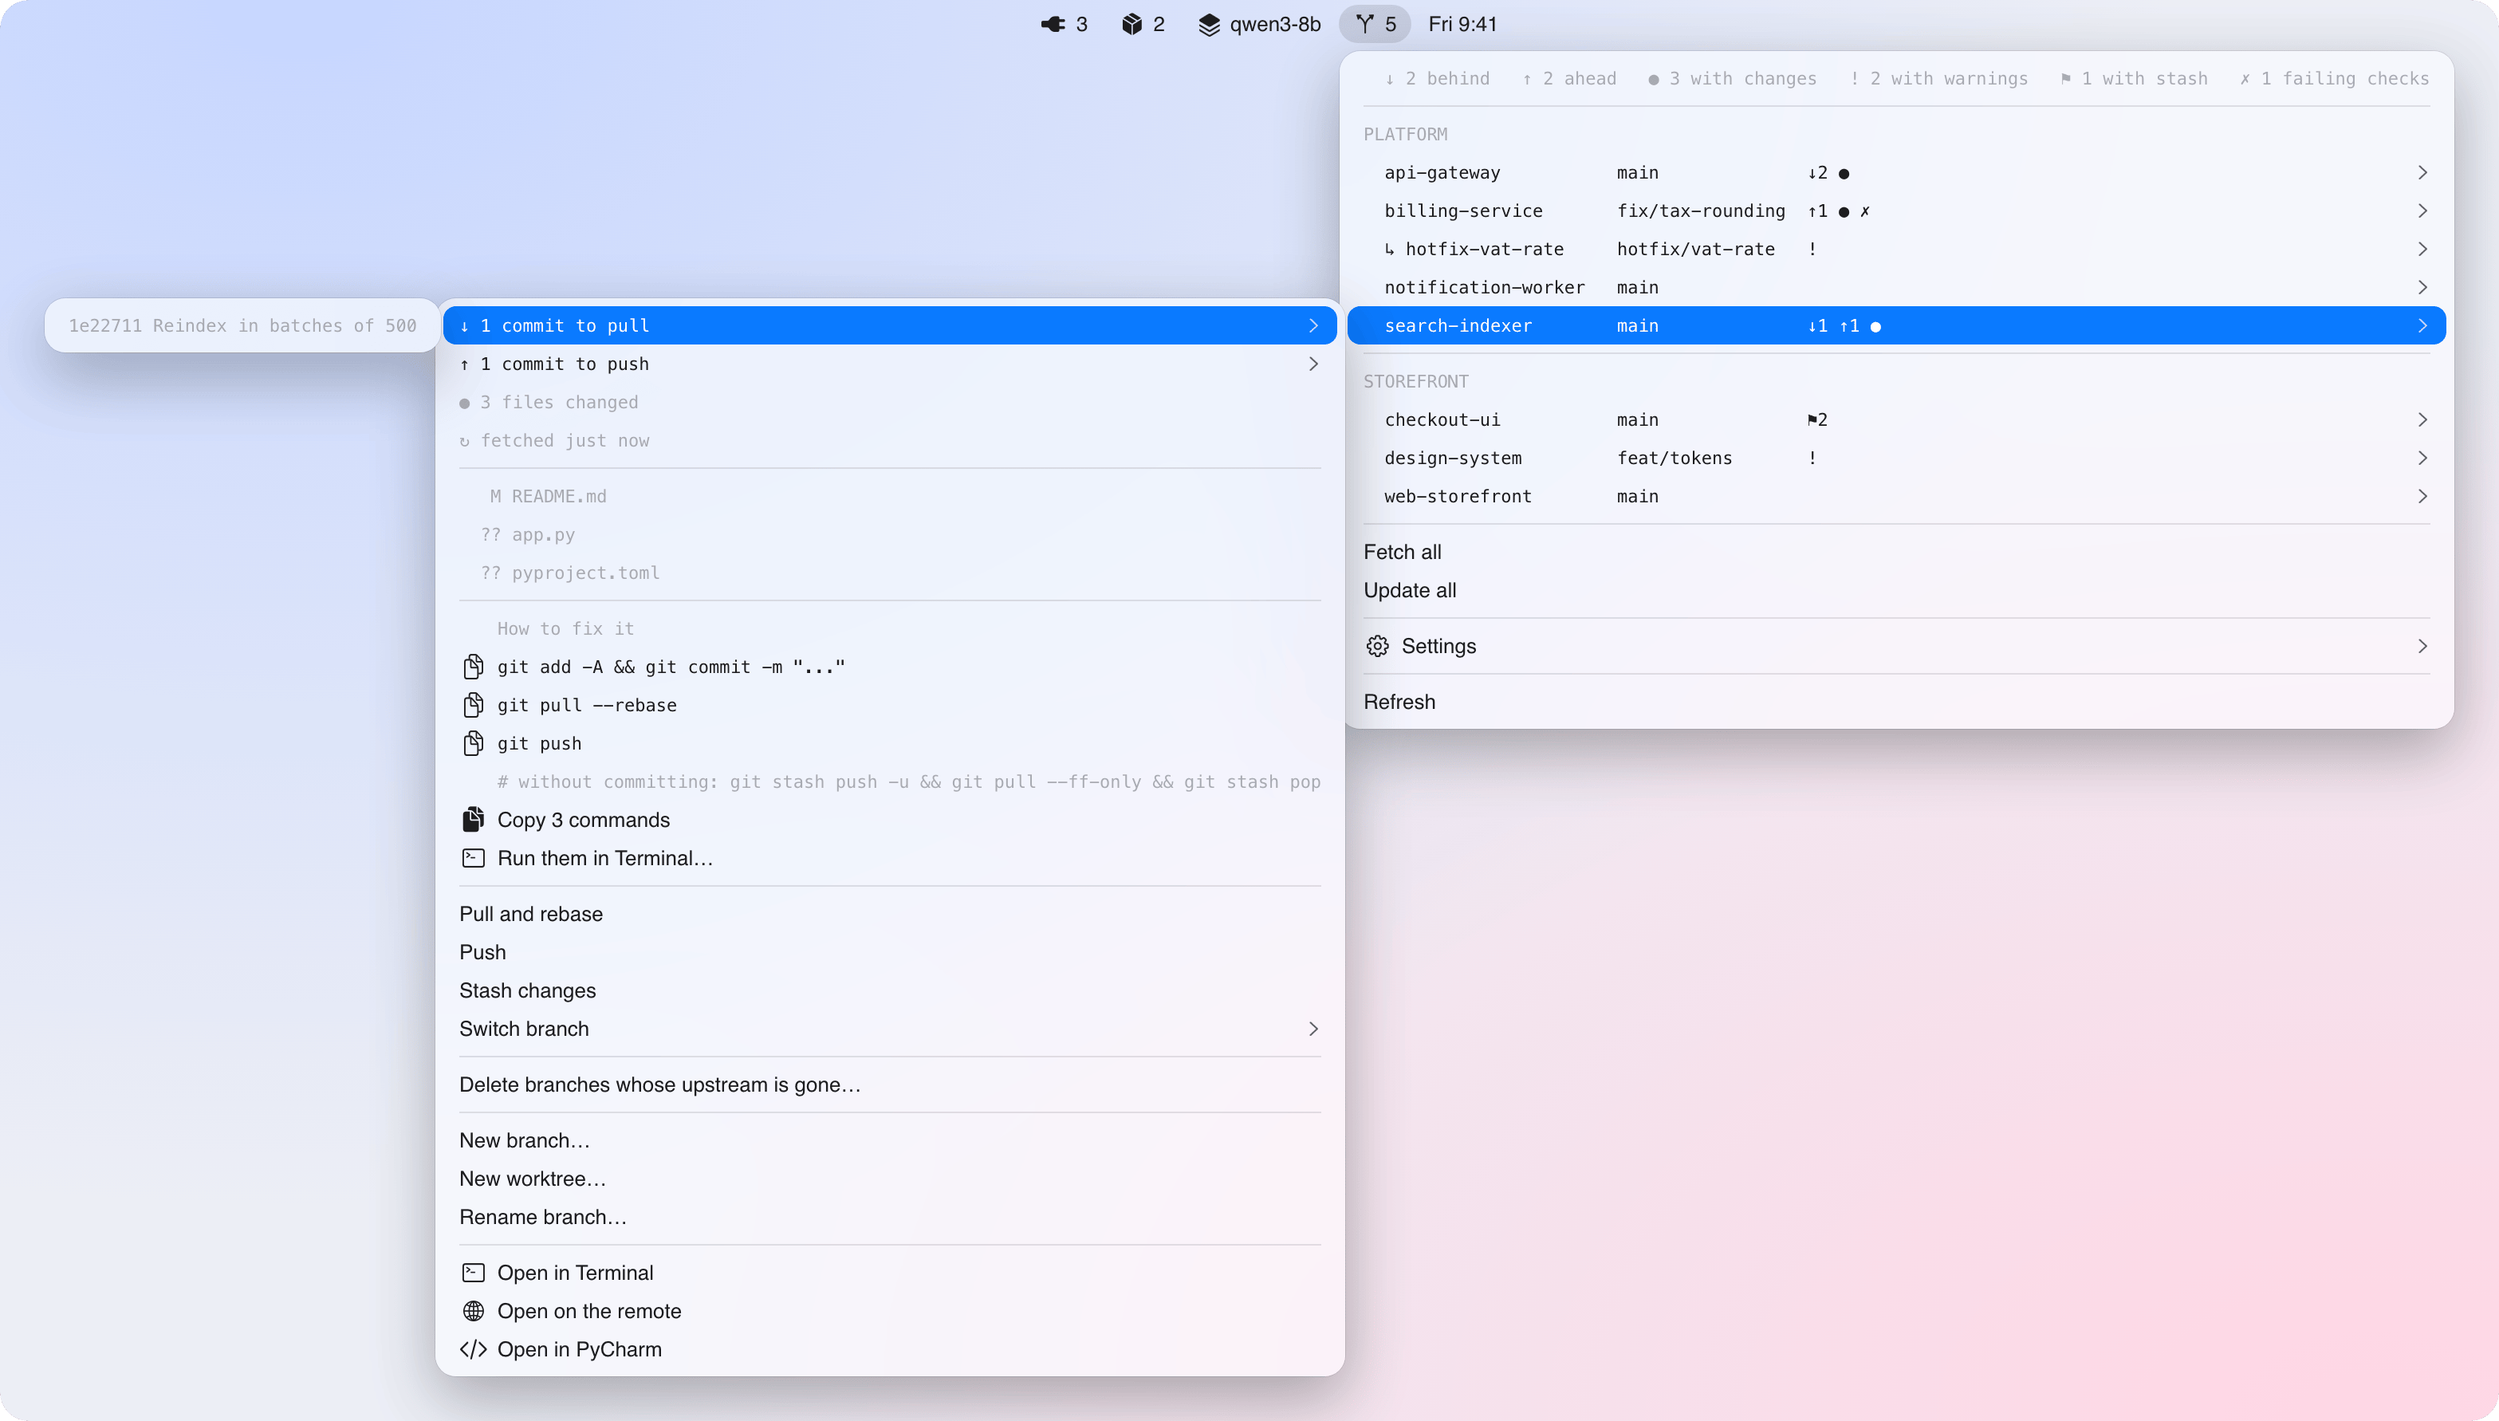
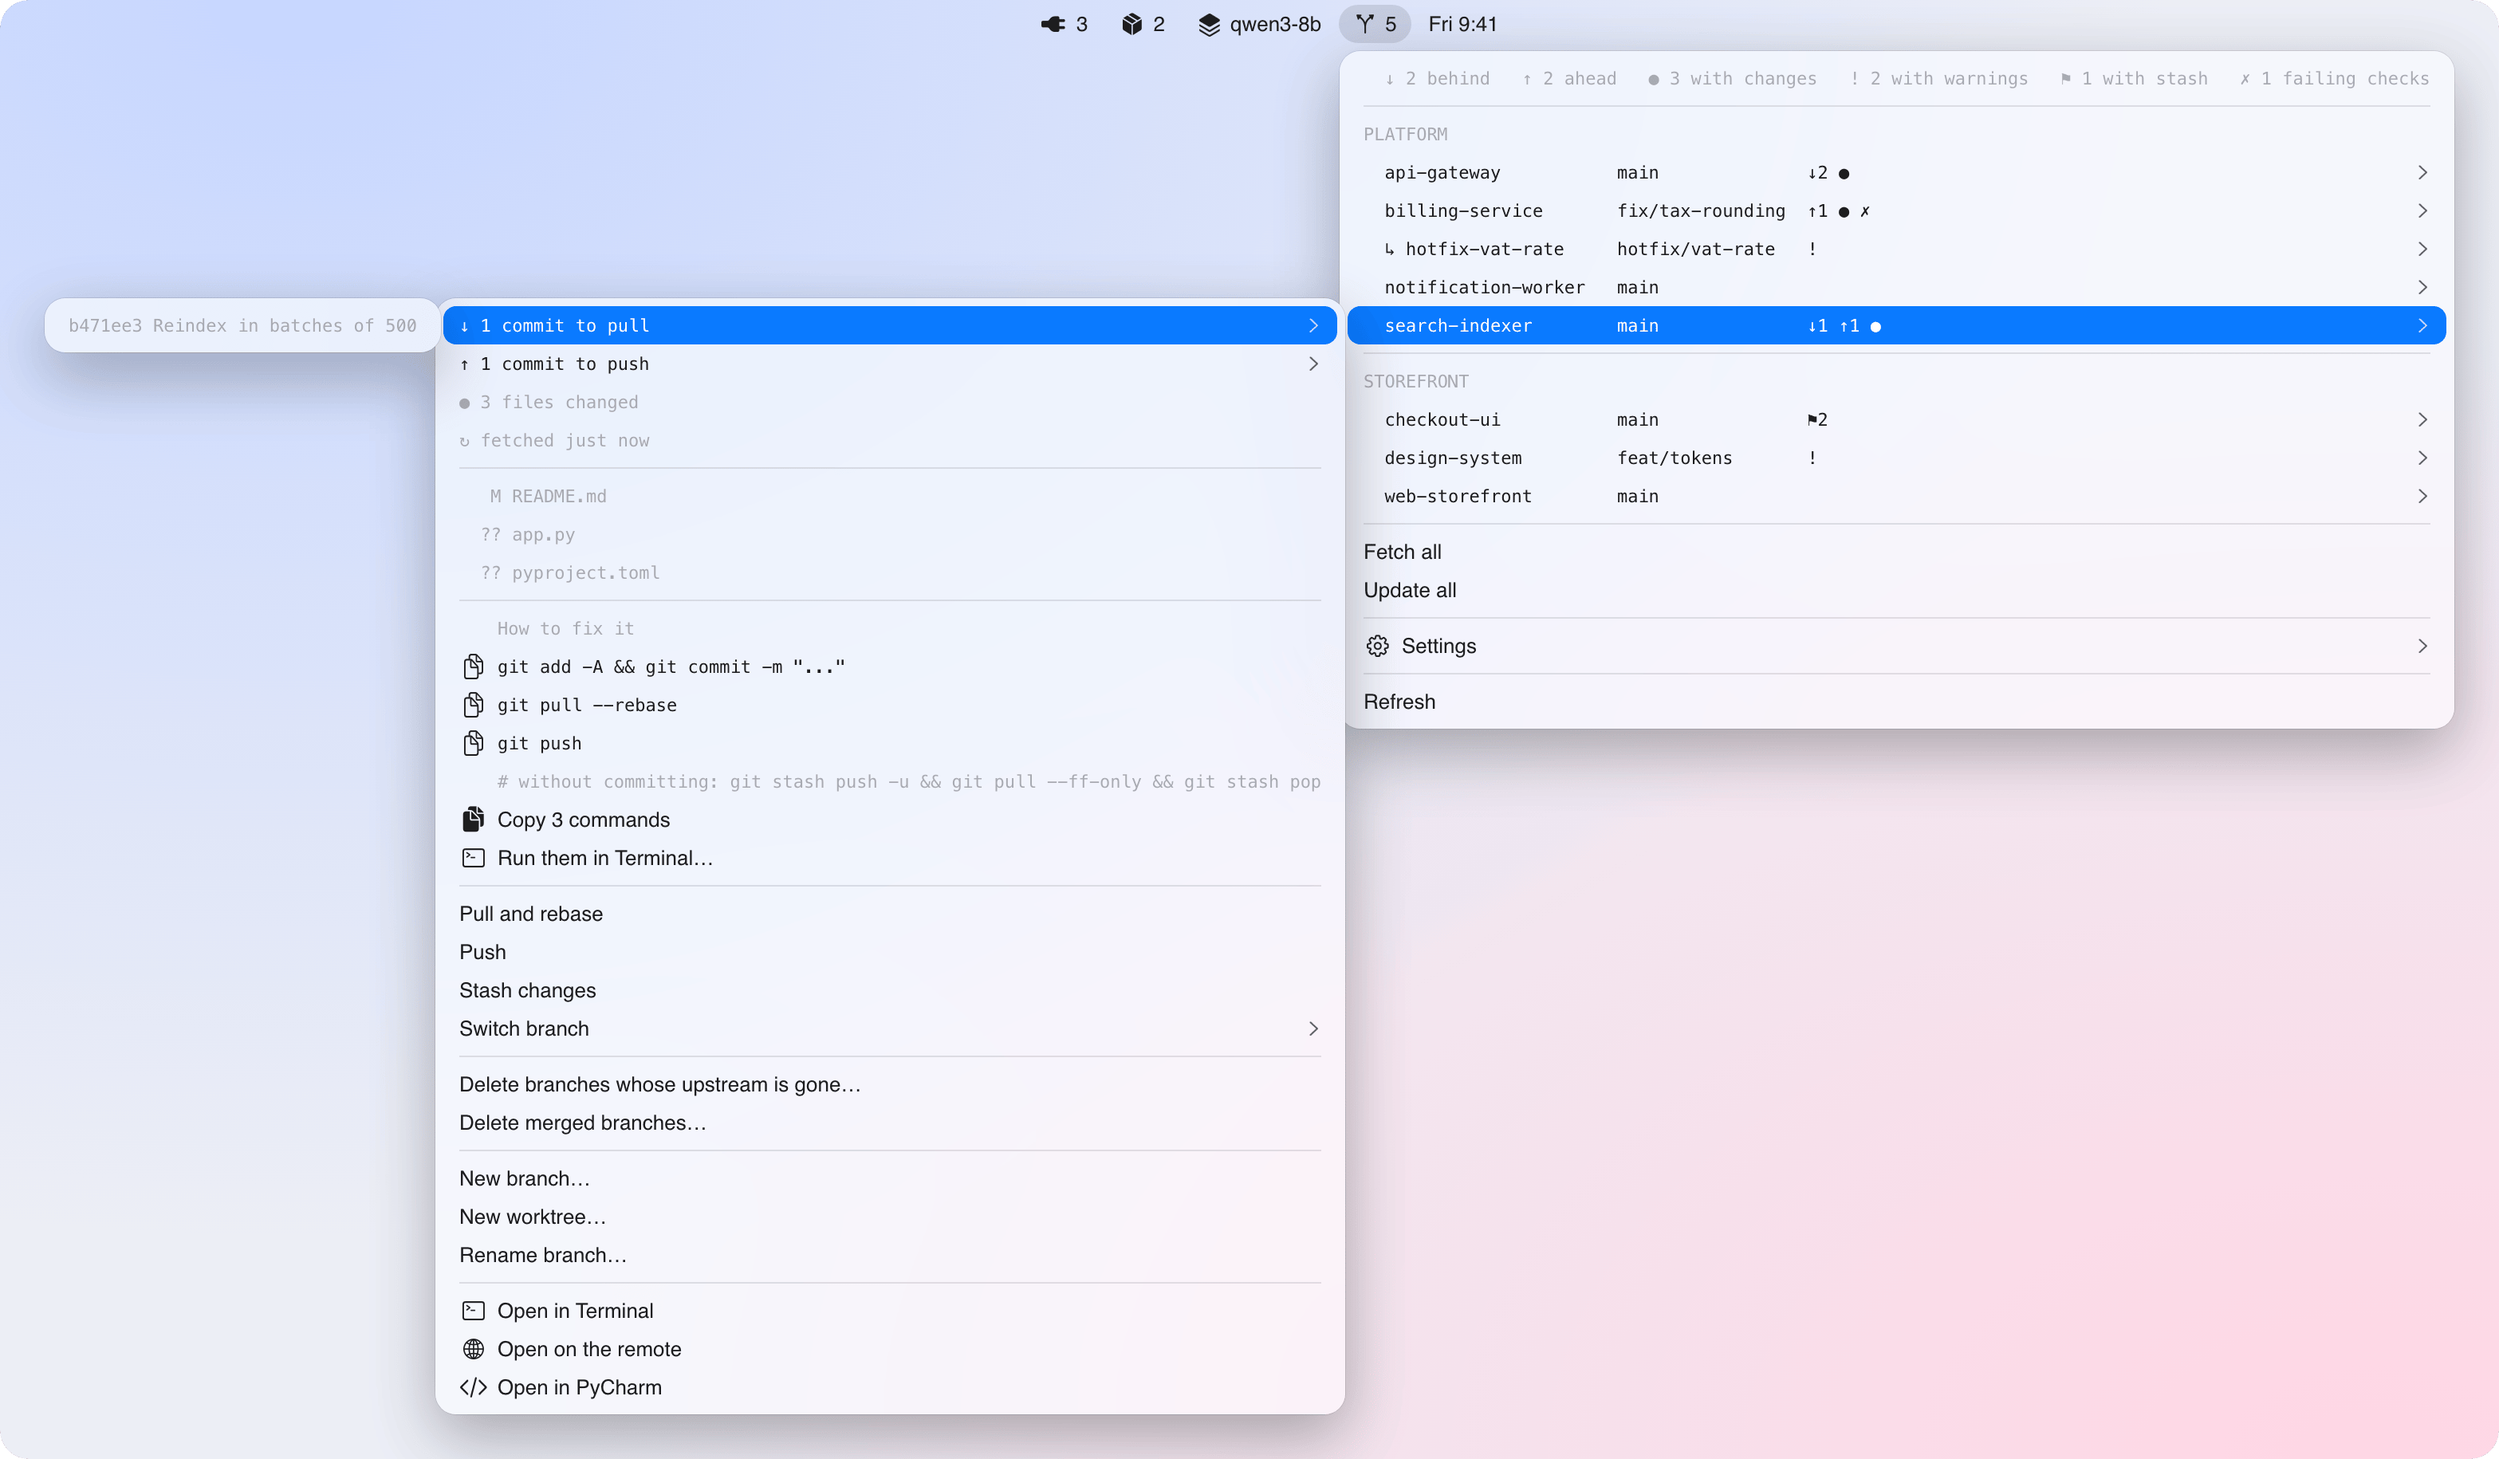
Show the branch each service runs from and delete merged branches

diff --git a/plugins/devports.15s.py b/plugins/devports.15s.py
@@ -91,6 +91,7 @@ LSOF = "/usr/sbin/lsof"
 PS = "/bin/ps"
 MONO = "font=Menlo size=11"
 MAX_CMD = 110          # command line trimmed to this in the submenu
+MAX_BRANCH = 32        # branch shown beside the service name, trimmed to this
 
 # Debug ports: opened by the IDE, not by the application. A Java service
 # started in debug mode listens on 5005 on top of its own, and since 5005 is
@@ -671,6 +672,43 @@ def project_root(start, runtime):
     return None, None
 
 
+def git_branch(start):
+    """Branch checked out where the service runs, or None outside a repository.
+
+    Read from HEAD rather than asked of git: the bar redraws every few seconds
+    and a process per service for one word is not worth it. A worktree's .git
+    is a file naming its real git dir, where its own HEAD lives.
+    """
+    if not start or not os.path.isdir(start):
+        return None
+    home = os.path.expanduser("~")
+    current = os.path.realpath(start)
+    for _ in range(LEVELS_UP):
+        dot = os.path.join(current, ".git")
+        if os.path.isdir(dot):
+            gitdir = dot
+            break
+        if os.path.isfile(dot):
+            line = (_read(dot) or "").strip()
+            if not line.startswith("gitdir:"):
+                return None
+            gitdir = os.path.join(current, line[len("gitdir:"):].strip())
+            break
+        parent = os.path.dirname(current)
+        if parent == current or current == home:
+            return None
+        current = parent
+    else:
+        return None
+    try:
+        head = (_read(os.path.join(gitdir, "HEAD")) or "").strip()
+    except OSError:
+        return None
+    if head.startswith("ref: refs/heads/"):
+        return head[len("ref: refs/heads/"):]
+    return "detached" if head else None
+
+
 def script_dir(tokens, runtime):
     """Directory of the running script, if it is an absolute path."""
     # Not for Go: `go run` builds into a temp dir, so the binary's location
@@ -785,6 +823,10 @@ def main():
         ordered = sorted(port_set)
         useful = [p for p in ordered if p not in DEBUG_PORTS]
         name, project = app_name(runtime, line, cwds.get(pid))
+        try:
+            branch = git_branch(project or cwds.get(pid))
+        except Exception:
+            branch = None
         # The interpreter's directory says nothing the rows above do not, and
         # the Command Line Tools' Python runs to ninety characters of it before
         # the script even appears. Matched on comm, so a path with spaces in it
@@ -797,6 +839,7 @@ def main():
             "runtime": runtime,
             "name": name,
             "project": project,
+            "branch": branch,
             "ports": ordered,
             "primary": useful[0] if useful else ordered[0],
             "origin": came_from,
@@ -826,7 +869,13 @@ def main():
 
     for s in services:
         extra = " +{}".format(len(s["ports"]) - 1) if len(s["ports"]) > 1 else ""
-        print("{}{}  {}".format(s["primary"], extra, clean(s["name"])))
+        # The branch it runs from: a dev server left on another branch than the
+        # one you are editing explains a lot of "my change does nothing".
+        branch = s["branch"] or ""
+        if len(branch) > MAX_BRANCH:
+            branch = branch[:MAX_BRANCH - 1] + "…"
+        print("{}{}  {}{}".format(s["primary"], extra, clean(s["name"]),
+                                  "  ·  " + clean(branch) if branch else ""))
 
         detail = "{} · PID {}".format(s["runtime"], s["pid"])
         if s["origin"]:

diff --git a/README.md b/README.md
@@ -60,7 +60,7 @@ fix whatever is wrong.
 <p align="center"><sub>Behind and ahead at once: the commit Update would bring, and the commands that sort it out.</sub></p>
 
 - **Branches** local and remote: switch between them, or clear out the ones
-  whose remote is gone. A dirty tree is offered a stash first. Every local
+  whose remote is gone or that are already merged. A dirty tree is offered a stash first. Every local
   branch shows what it has unpushed, so none gets forgotten.
 - **Worktrees** one click away: a new one per branch, opened in your IDE, marked
   `↳` in the list and removed again when you are done — never with changes in it.
@@ -103,7 +103,7 @@ system daemons are filtered out.
 <p align="center">
   <picture>
     <source media="(prefers-color-scheme: dark)" srcset="docs/screenshots/devports-dark.png">
-    <img src="docs/screenshots/devports-light.png" alt="The Dev ports menu listing services by project name, one opened with its CPU, memory and uptime" width="498">
+    <img src="docs/screenshots/devports-light.png" alt="The Dev ports menu listing services by project name and branch, one opened with its CPU, memory and uptime" width="498">
   </picture>
 </p>
 
@@ -111,6 +111,8 @@ system daemons are filtered out.
   called `main.py`.
 - **Java, Python, Node, Bun, Deno, Go.** Debug ports labelled and demoted.
 - **What each one costs**: CPU, memory and how long it has been up.
+- **The branch it runs from**, beside its name — for when a change seems to do
+  nothing because the server is still on another branch.
 - **Open, copy or kill**: the port in a browser, the PID on the clipboard, the
   project in your IDE.
 

diff --git a/CHANGELOG.md b/CHANGELOG.md
@@ -10,6 +10,10 @@
   checks and review, looked up through `gh` every 5 minutes
   (`REPOS_PR_MINUTES`). Failing checks mark the row and count as pending.
 - **CPU, memory and uptime** for every service in the Dev ports bar.
+- **The branch each service runs from**, beside its name in the Dev ports bar,
+  read from `.git/HEAD` without starting a process.
+- **Delete merged branches…** in the Repos bar: local branches already merged
+  into the remote's main branch, with the same `-d` that refuses anything else.
 - The `↓`/`↑` counts open onto the commits themselves, so you see what Update
   brings and what Push sends before clicking either.
 - **Tracking of every local branch** in Switch branch: `↑N`/`↓N`, `local` when

diff --git a/docs/screenshots/README.md b/docs/screenshots/README.md
@@ -11,6 +11,6 @@ GitHub's theme.
 | `branches` | a repository's local branches with their tracking, one checked out in a worktree |
 | `diverged` | a repository behind and ahead at once: the commit to pull and the commands that fix it |
 | `stashes` | a repository with stashes: each one, its branches and the actions on it |
-| `devports` | the services holding a port, named after their project, one opened with what it costs |
+| `devports` | the services holding a port, named after their project and branch, one opened with what it costs |
 | `colima` | the VM and its containers, one opened |
 | `llama` | the loaded model and the context window it is using |
